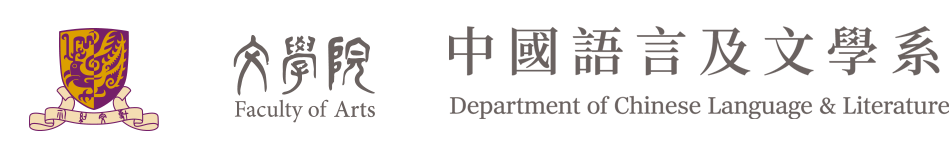
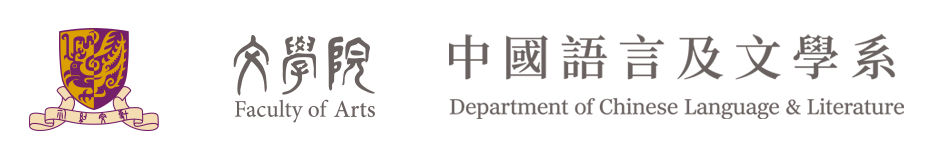
newsletter update

Changed region(s): [[0.4584, 0.1562, 1.0, 0.5], [0.4584, 0.5938, 1.0, 0.75]]

diff --git a/module.css b/module.css
@@ -7364,6 +7364,167 @@ body.dragging-scroll {
     padding-top: 60px;
 }
 
+
+
+/* newsletter_main*/
+
+.section_newsletter{
+
+}
+
+.newsletter_main{
+    position: relative;
+    z-index: 10;
+}
+
+.newsletter_col_wrapper{
+    display: flex;
+    justify-content: space-between;
+}
+
+.section_newsletter .newsletter_main table{
+    width: calc(100% - 30px) !important;
+    margin: auto !important;
+}
+
+
+.section_newsletter .newsletter_main .enews_head_table{
+    width: calc(100%) !important;
+
+}
+
+.section_newsletter .newsletter_main table td:first-child{
+    width: auto !important;
+}
+
+.newsletter_side_content{
+    padding-left: 50px;
+}
+
+.newsletter_side_title{
+    padding: 10px;
+    text-align: center;
+    color:#0A2342;
+    /* background-color: #0A2342; */
+    position: relative;
+    z-index: 1;
+}
+
+.recent_newsletter_list_wrapper{
+    position: relative;
+}
+
+.recent_newsletter_list_wrapper::before {
+  content: "";
+  position: absolute;
+  left: 0px;
+  top: 0px;
+  width: 100%;
+  height: 100%;
+  background: linear-gradient(180deg, rgba(126,204,189,0.5) 0%, rgba(126,204,189,0) 100%);
+}
+
+.recent_newsletter_list{
+    /* border:1px solid #0A2342; */
+    padding: 15px;
+    /* background-color: #fff; */
+    border-top:1px solid #fff;
+    position: relative;
+    z-index: 1;
+}
+
+.recent_newsletter_list_item + .recent_newsletter_list_item{
+    margin-top: 15px;
+}
+
+.recent_newsletter_list_item a{
+    color:#0A2342;
+}
+
+.recent_newsletter_list_item a:hover{
+    color:#5aba80;
+}
+
+.newsletter_side_dropdown_wrapper{
+    margin-top: 60px;
+}
+
+.newsletter_side_dropdown_wrapper .filter_dropdown_wrapper .filter_dropdown_btn::before {
+  right: 25px;
+}
+
+.newsletter_side_dropdown_wrapper .filter_dropdown_btn{
+    /* background-color: #fff;
+    border:1px solid #0A2342; */
+}
+.newsletter_side_dropdown_wrapper .filter_dropdown_btn::after{
+    content: "";
+    position: absolute;
+    bottom: 0px;
+    right: 0px;
+    margin: auto;
+    height: 100%;
+    background: linear-gradient(0deg, rgba(126,204,189,0) 0%, rgba(126,204,189,0.5) 100%);
+    pointer-events: none;
+    width: auto;
+    left: 0px;
+    z-index: -1;
+}
+
+.newsletter_side_dropdown_menu_wrapper{
+    display: flex;
+    gap: 20px;
+    justify-content: space-between;
+}
+
+.newsletter_side_dropdown_menu_wrapper > *{
+    flex: 1;
+}
+
+.old_newsletter_menu{
+    margin-top: 60px;
+}
+
+.old_newsletter_menu .old_newsletter_btn{
+    display: block;
+}
+
+.newsletter_side_dropdown_wrapper .filter_dropdown_wrapper + .filter_dropdown_wrapper{
+    margin-top: 20px;
+}
+
+.newsletter_side_dropdown_wrapper .filter_dropdown_wrapper{
+    position: relative;
+}
+
+.newsletter_side_dropdown_wrapper .filter_dropdown{
+    z-index: 1;
+}
+
+.newsletter_side_dropdown_item{
+}
+
+.newsletter_side_dropdown_item .filter_dropdown_wrapper{
+    display: none;
+}
+
+.newsletter_side_dropdown_menu{
+    position: relative;
+    z-index: 1;
+}
+
+.single-newsletter .footer{
+    z-index: 2;
+}
+
+.newsletter_side_dropdown_wrapper .filter_dropdown_wrapper .filter_dropdown{
+    padding: 10px;
+}
+
+.newsletter_side_dropdown_wrapper .filter_dropdown_wrapper .filter_dropdown ul a {
+  padding: 10px;
+}
+
 /* general_section */
 
 .general_section .general_content{
@@ -7397,7 +7558,26 @@ body.dragging-scroll {
 .text_c3{
     color:#63629B !important;
 }
+@media screen and (max-width: 1440px) {
+    .section_newsletter .col10{
+        width: 100%;
+    }
 
+    .newsletter_side_dropdown_wrapper .filter_dropdown_wrapper .filter_dropdown ul a {
+        padding-left: 0px;
+        padding-right: 0px;
+    }
+
+    .newsletter_side_dropdown_wrapper  .filter_dropdown_wrapper .filter_dropdown_btn {
+        padding-right: 10px;
+        padding-left: 10px;
+        }
+
+    .newsletter_side_dropdown_wrapper .filter_dropdown_wrapper .filter_dropdown_btn::before {
+        right: 15px;
+    }
+
+}
 
 @media screen and (max-width: 1200px) {
 
@@ -8300,6 +8480,85 @@ body.dragging-scroll {
     .home_promotion_box_wrapper {
     margin-top: 30px;
     }
+
+      /* newsletter_col_wrapper */
+
+        .newsletter_col_wrapper{
+            flex-direction: column;
+            gap:30px;
+        }
+
+        .newsletter_side_dropdown_wrapper  .filter_dropdown_wrapper .filter_dropdown_btn {
+        padding-right: 10px;
+        padding-left: 10px;
+        }
+
+        .newsletter_main {
+        position: relative;
+        z-index: 10;
+        margin: auto;
+        width: auto !important;
+        }
+
+        .newsletter_side{
+        margin: auto;
+        width: 100% !important;
+        }
+
+        .newsletter_main table{
+            width: 100% !important;
+            max-width: 600px !important;
+        }
+
+        .newsletter_main img{
+            width: 100% !important;
+            max-width: 600px !important;
+            height: auto !important;
+        }
+
+        .newsletter_main .enews_head{  
+            vertical-align: middle;
+        }
+
+        .newsletter_main .enews_head img{
+            height: 35px !important;
+            width: auto !important;
+            display: inline-block !important;
+            vertical-align: middle;
+        }
+
+        .newsletter_side_content {
+        padding-left: 0px;
+        }
+
+        .section_newsletter .center_content{
+            width: 100% !important;
+        }
+
+        .section_newsletter .newsletter_main table td{
+            width: auto !important;
+        }
+
+        .section_newsletter .newsletter_main table td + td{
+            width: 50% !important;
+        }
+
+        .section_newsletter .newsletter_main table td + td img{
+        }
+
+        .section_newsletter .newsletter_main table {
+        width: calc(100%) !important;
+        margin: auto !important;
+        }
+
+        .newsletter_side_dropdown_wrapper .filter_dropdown_btn{
+            background-color: #fff;
+            border:1px solid #0A2342;
+        }
+
+        .newsletter_side_dropdown_wrapper .filter_dropdown{
+            border-top:none !important;
+        }
 
 }
 

diff --git a/single-newsletter.php b/single-newsletter.php
@@ -35,7 +35,7 @@ while (have_posts()) :
                                                 <tbody>
                                                     <tr>
                                                         <td align="left" valign="top" style="width:360px; text-align:left;" class="enews_head">
-                                                            <img src="<?php echo get_template_directory_uri(); ?>/images/enews_head.png" style="dislay:block;width:360px;height:80px;margin:0px;mso-line-height-rule:at-least;">
+                                                            <img src="<?php echo get_template_directory_uri(); ?>/images/enews_head.png" style="dislay:block;width:475px;height:80px;margin:0px;mso-line-height-rule:at-least;">
                                                         </td>
                                                         <td align="right" valign="top" style="width:200px; text-align: right; font-size: 12px; padding: 20px;">
                                                             <?php
